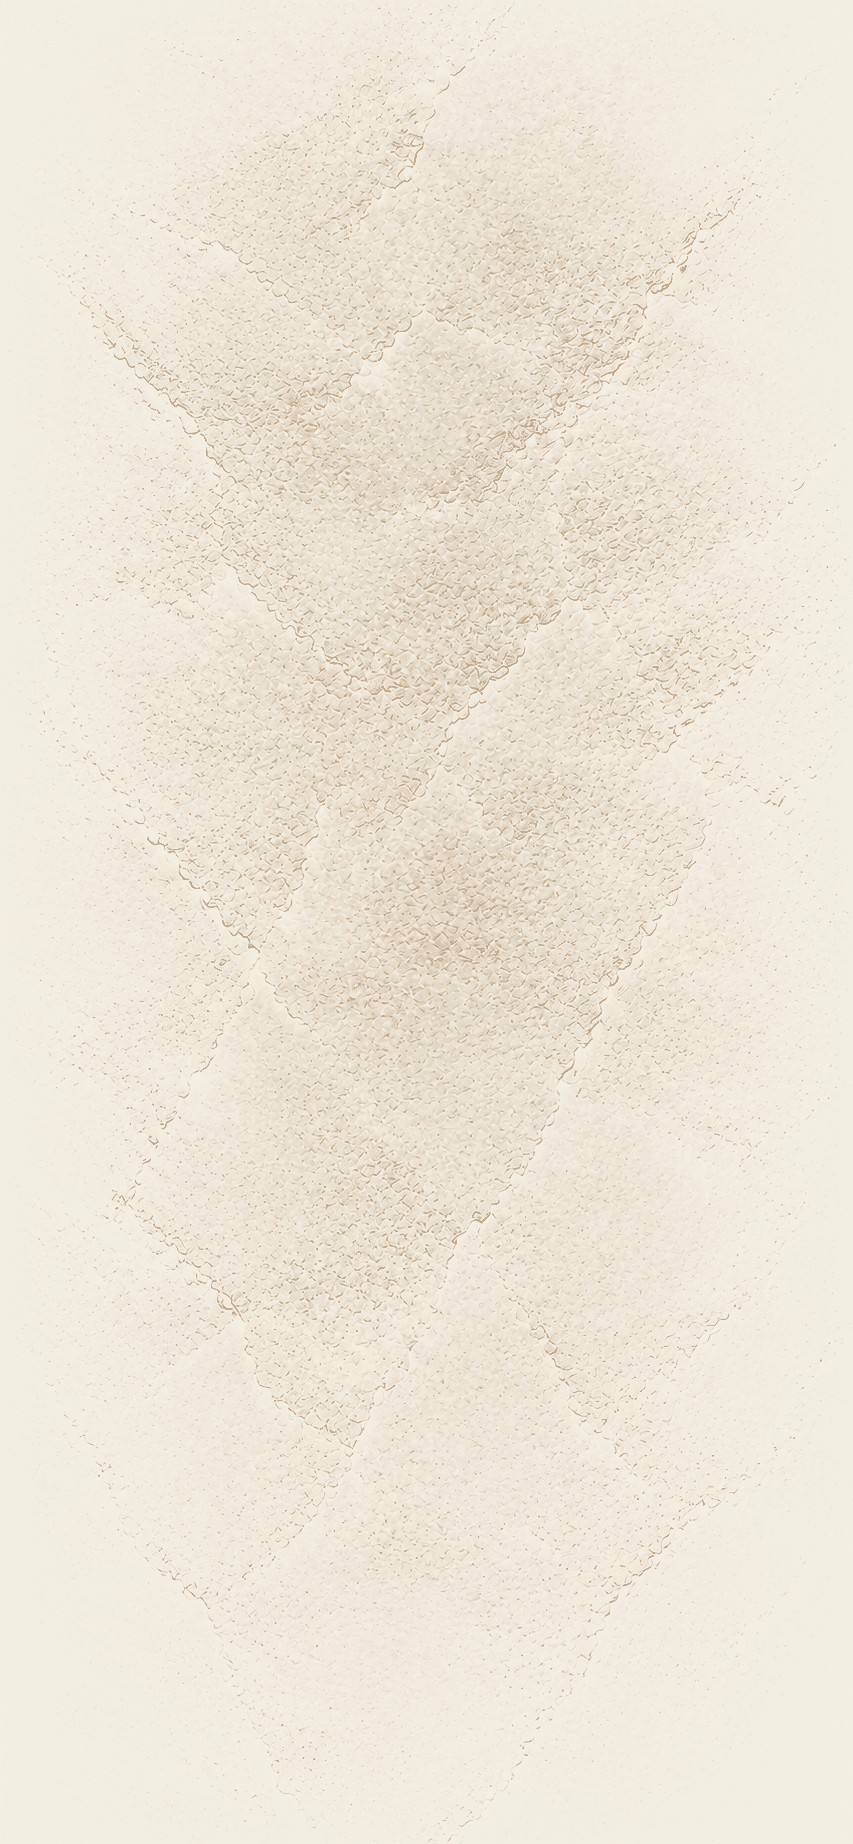
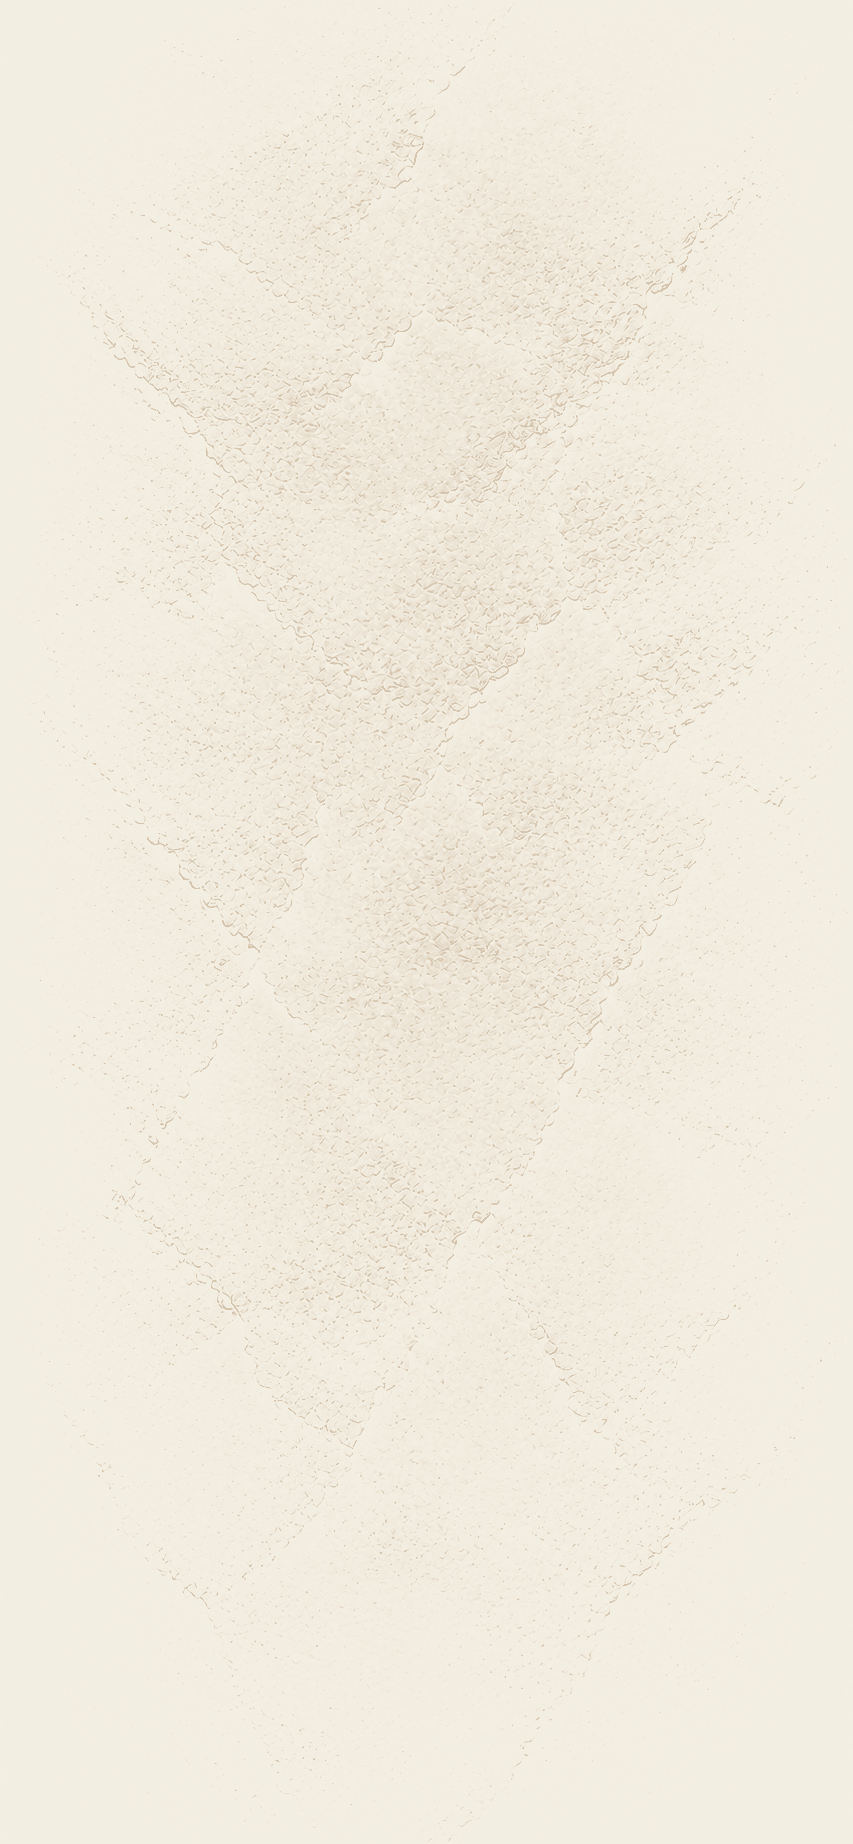
fix(theme): per-plate tuning — quieter slate, mountains that read
PO, against the design's own Paper artboards: the slate screens should be *more* subtle again, and
*"the ones with the mountains need to be more prominent and shouldn't be too far in the background…
Legacy needs to be more prominent too."*

⭐ THOSE PULL IN OPPOSITE DIRECTIONS, WHICH IS WHY ONE NUMBER COULD NOT DO IT. `STRENGTH` was global.
Every plate now carries its own `gamma` and `strength`, because they are not the same KIND of image:
four are plain slate textures, one is a picture, and TWO ARE HYBRIDS — a mountain range over a slate
field. The single setting that finally quietened the slate was the same one washing the peaks out.

  slate (x4)         g2.0 s0.50 -> g2.6 s0.30   p95 bronze 24% -> 12%
  squads/squad hybrid g2.0 s0.50 -> g4.0 s1.00   field p50 -> 0.5%, peaks p99 -> 100%
  hero-mountains      g6.0 s0.50 -> g4.5 s1.00   (inverted; Legacy also raises its render opacity)

⚠ THE HYBRIDS NEEDED A HIGHER GAMMA, NOT JUST MORE STRENGTH. The peaks are the BRIGHT part of the
source and the field is the dark part, so pushing the midtones harder toward cream drops the slate
to paper while the ridgeline keeps its bronze. More strength alone would have brought the field up
with the mountains and produced exactly the busy background this pass was asked to remove.

⭐ RECOLOURING CANNOT RESCUE A PLATE DRAWN AT 37%. Legacy renders its mountains at
`imageOpacity={0.375}` — ample on near-black, where a faint bronze ridgeline still reads against
[…]

diff --git a/src/components/screen-background.tsx b/src/components/screen-background.tsx
@@ -73,6 +73,7 @@ export function ScreenBackground({
   base = DEFAULT_BASE,
   imagePosition = 'center',
   imageOpacity = 1,
+  imageOpacityPaper,
   overlay,
   radials,
   atmospheric = false,
@@ -86,6 +87,18 @@ export function ScreenBackground({
   imagePosition?: 'center' | 'top';
   /** Cover-artwork opacity (0–1); < 1 makes the background artwork subtler over the base. Default 1. */
   imageOpacity?: number;
+  /**
+   * Paper's cover-artwork opacity, when it differs.
+   *
+   * ⚠ NEEDED BECAUSE RECOLOURING CANNOT RESCUE A PLATE DRAWN AT 37%. Legacy renders its mountains at
+   * `imageOpacity={0.375}` — on near-black that is plenty, because a faint bronze ridgeline against
+   * black still reads. Against cream there is far less contrast to spend, and the same 37% left the
+   * range looking washed out and too far back. The pictorial plates therefore carry MORE presence in
+   * Paper, not less, which is the opposite of the instinct for a light theme.
+   *
+   * Omit it and Paper uses `imageOpacity` unchanged, which is right for every texture plate.
+   */
+  imageOpacityPaper?: number;
   /** Per-screen darkening overlay; `null`/omitted → none (the atmospheric screens carry no dark scrim). */
   overlay?: ScreenOverlay | null;
   /** Screen-level bronze radial-glows layered over the base + overlay. */
@@ -112,7 +125,12 @@ export function ScreenBackground({
         />
       ) : null}
       {image != null ? (
-        <Image source={image} style={[StyleSheet.absoluteFill, { opacity: imageOpacity }]} contentFit="cover" contentPosition={imagePosition} />
+        <Image
+          source={image}
+          style={[StyleSheet.absoluteFill, { opacity: IS_PAPER ? imageOpacityPaper ?? imageOpacity : imageOpacity }]}
+          contentFit="cover"
+          contentPosition={imagePosition}
+        />
       ) : null}
       {overlay ? <Overlay overlay={overlay} /> : null}
       {allRadials.length ? <ScreenRadials radials={allRadials} /> : null}

diff --git a/src/app/(tabs)/legacy.tsx b/src/app/(tabs)/legacy.tsx
@@ -217,7 +217,7 @@ export default function LegacyScreen() {
 
   return (
     <View style={styles.root}>
-      <ScreenBackground image={SCREEN_BG.legacyMountains} imageOpacity={0.375} overlay={{ flat: 'rgba(5,5,5,0.30)' }} scrimFade scrollY={scrollY} />
+      <ScreenBackground image={SCREEN_BG.legacyMountains} imageOpacity={0.375} imageOpacityPaper={0.7} overlay={{ flat: 'rgba(5,5,5,0.30)' }} scrimFade scrollY={scrollY} />
 
       <AppBar
         title="Legacy"
@@ -518,7 +518,7 @@ function LegacyShell({
   const router = useRouter();
   return (
     <View style={styles.root}>
-      <ScreenBackground image={SCREEN_BG.legacyMountains} imageOpacity={0.375} overlay={{ flat: 'rgba(5,5,5,0.30)' }} scrimFade scrollY={scrollY} />
+      <ScreenBackground image={SCREEN_BG.legacyMountains} imageOpacity={0.375} imageOpacityPaper={0.7} overlay={{ flat: 'rgba(5,5,5,0.30)' }} scrimFade scrollY={scrollY} />
       <AppBar title="Legacy" serif avatar={<Avatar name={avatarName} src={avatarSrc} size="appBar" />} onAvatar={() => router.push('/account-settings')} />
       <View style={styles.statusWrap}>{children}</View>
     </View>

diff --git a/src/app/(tabs)/squads.tsx b/src/app/(tabs)/squads.tsx
@@ -115,7 +115,12 @@ export default function SquadsScreen() {
 
   return (
     <View style={styles.root}>
-      <ScreenBackground image={SCREEN_BG.slate} overlay={{ flat: 'rgba(5,5,5,0.15)' }} />
+      {/* ⚠ `squadsHub` — NOT `slate`. This plate was imported with the other six (FORGE_DELTAS §16) and
+          `backgrounds.ts` has always described it as one of "the two squad surfaces", but nothing ever
+          rendered it: `grep SCREEN_BG.squadsHub` returned zero call sites. `Squads Hub - Paper.dc.html`
+          shows the ridgeline at the top of this screen, which is what the plate carries and what the
+          slate texture does not. Unfinished wiring, found while tuning the mountain plates. */}
+      <ScreenBackground image={SCREEN_BG.squadsHub} overlay={{ flat: 'rgba(5,5,5,0.15)' }} />
 
       <AppBar
         title={<Text style={styles.barTitle}>Squads</Text>}

diff --git a/scripts/paper-plates/recolor.py b/scripts/paper-plates/recolor.py
@@ -71,39 +71,39 @@ BG = ROOT / "assets" / "backgrounds"
 CREAM = np.array([0xF4, 0xEF, 0xE3], dtype=np.float32)
 BRONZE = np.array([0x94, 0x68, 0x38], dtype=np.float32)
 
-#: How much of the cream→bronze ramp a plate is allowed to travel, overall.
+#: ⚠ EVERY PLATE IS TUNED SEPARATELY, because they are not all the same KIND of image.
 #:
-#: ⚠ PO CALL, 2026-08-25: *"the background is too prominent, I would make it 50% more subtle."*
-#: At 1.0 the veining carried real weight and competed with the cards sitting on it. Halving the mix
-#: keeps every bit of the texture — the grain, the veins, their shape and their position are all
-#: unchanged — and simply lets less bronze into it, so the plate reads as paper STOCK rather than as an
-#: image. This is the honest lever for "more subtle": raising GAMMA instead would have crushed the
-#: midtones and lost detail rather than volume.
-STRENGTH = 0.5
+#: PO, 2026-08-25, looking at the design's own Paper artboards: the slate screens should be *more*
+#: subtle again, and *"the ones with the mountains need to be more prominent and shouldn't be too far
+#: in the background."* Those pull in opposite directions, so a single global strength cannot serve
+#: both — it was one number until this pass, and that is why the mountains were washing out at the
+#: same setting that still left the slate too busy.
+#:
+#:   strength — how far along the cream→bronze ramp the plate may travel. Lower = subtler overall.
+#:   gamma    — how hard the midtones are pushed toward cream. HIGHER separates a bright subject from
+#:              its field, which is what makes a mountain range read while its slate ground stays
+#:              paper. On a plain texture it simply thins the veining.
+#:
+#: The two hybrids (`squads-hub-bg`, `squad-bg-continued`) are a mountain range over a slate field, so
+#: they take a high gamma AND full strength: the peaks are the bright part of the source, so pushing
+#: the midtones down drops the field to cream while the peaks keep their bronze. Chosen by rendering
+#: the candidates, not by prediction.
+PLATES = {
+    "forge-slate":        dict(gamma=2.6, strength=0.30),
+    "forge-slate2":       dict(gamma=2.6, strength=0.30),
+    "forge-bg-2":         dict(gamma=2.6, strength=0.30),
+    "legacy-bg":          dict(gamma=2.6, strength=0.30),
+    # Pictorial — see INVERT below. Legacy also raises its render opacity in Paper (0.375 -> 0.70),
+    # because a plate cannot be made prominent by recolouring alone when it is drawn at 37%.
+    "hero-mountains":     dict(gamma=4.5, strength=1.00, invert=True),
+    "squad-bg-continued": dict(gamma=4.0, strength=1.00),
+    "squads-hub-bg":      dict(gamma=4.0, strength=1.00),
+}
 
-GAMMA = 2.0
-#: Inverted plates need a much harder gamma — see the note on `INVERT` in the header. In
-#: `hero-mountains` the peaks AND most of the sky are dark, so simply flipping the ramp bronzes 81% of
-#: the image into a slab. 6.0 pulls the sky back to cream and leaves the ridgeline as the dark figure;
-#: it was chosen by rendering 2.0 / 4.0 / 6.0 composited at the 0.375 opacity Legacy actually uses.
-INVERT_GAMMA = 6.0
 LO_PCT, HI_PCT = 1.0, 99.0
 
-PLATES = [
-    "forge-slate",
-    "forge-slate2",
-    "forge-bg-2",
-    "legacy-bg",
-    "hero-mountains",
-    "squad-bg-continued",
-    "squads-hub-bg",
-]
 
-#: Pictorial plates — see the header. These depict a subject, so their figure must stay dark on paper.
-INVERT = {"hero-mountains"}
-
-
-def recolor(src: Path, dst: Path, invert: bool = False) -> None:
+def recolor(src: Path, dst: Path, gamma: float, strength: float, invert: bool = False) -> None:
     im = Image.open(src)
     has_alpha = im.mode in ("RGBA", "LA") or "transparency" in im.info
     alpha = im.getchannel("A") if has_alpha else None
@@ -119,10 +119,10 @@ def recolor(src: Path, dst: Path, invert: bool = False) -> None:
     if invert:
         # Keep the subject dark: bright sky -> cream, dark peaks -> bronze. The gamma is applied to
         # the flipped value so it still favours cream, otherwise the whole sky bronzes over.
-        t = (1.0 - t) ** INVERT_GAMMA
+        t = (1.0 - t) ** gamma
     else:
-        t = t**GAMMA
-    t = t * STRENGTH
+        t = t**gamma
+    t = t * strength
     out = CREAM + (BRONZE - CREAM) * t[..., None]
 
     res = Image.fromarray(np.clip(out, 0, 255).astype(np.uint8), "RGB")
@@ -135,8 +135,8 @@ def recolor(src: Path, dst: Path, invert: bool = False) -> None:
     pct = np.percentile(t, [50, 95, 99])
     print(
         f"  {src.name:26s} -> {dst.name:32s} "
-        f"{'INVERTED ' if invert else '         '}"
-        f"lum[{lo:5.1f},{hi:6.1f}]  bronze-mix p50/p95/p99 "
+        f"{'INV ' if invert else '    '}g{gamma:.1f} s{strength:.2f}  "
+        f"bronze-mix p50/p95/p99 "
         f"{pct[0]*100:4.1f}% {pct[1]*100:4.1f}% {pct[2]*100:5.1f}%  "
         f"{dst.stat().st_size/1_048_576:.1f} MB"
     )
@@ -148,13 +148,13 @@ def main() -> int:
         return 1
     print(f"Paper plates -> {BG}")
     missing = 0
-    for name in PLATES:
+    for name, cfg in PLATES.items():
         src = BG / f"{name}.png"
         if not src.exists():
             print(f"  !! missing {src.name}", file=sys.stderr)
             missing += 1
             continue
-        recolor(src, BG / f"{name}-paper.png", invert=name in INVERT)
+        recolor(src, BG / f"{name}-paper.png", **cfg)
     return 1 if missing else 0
 
 
